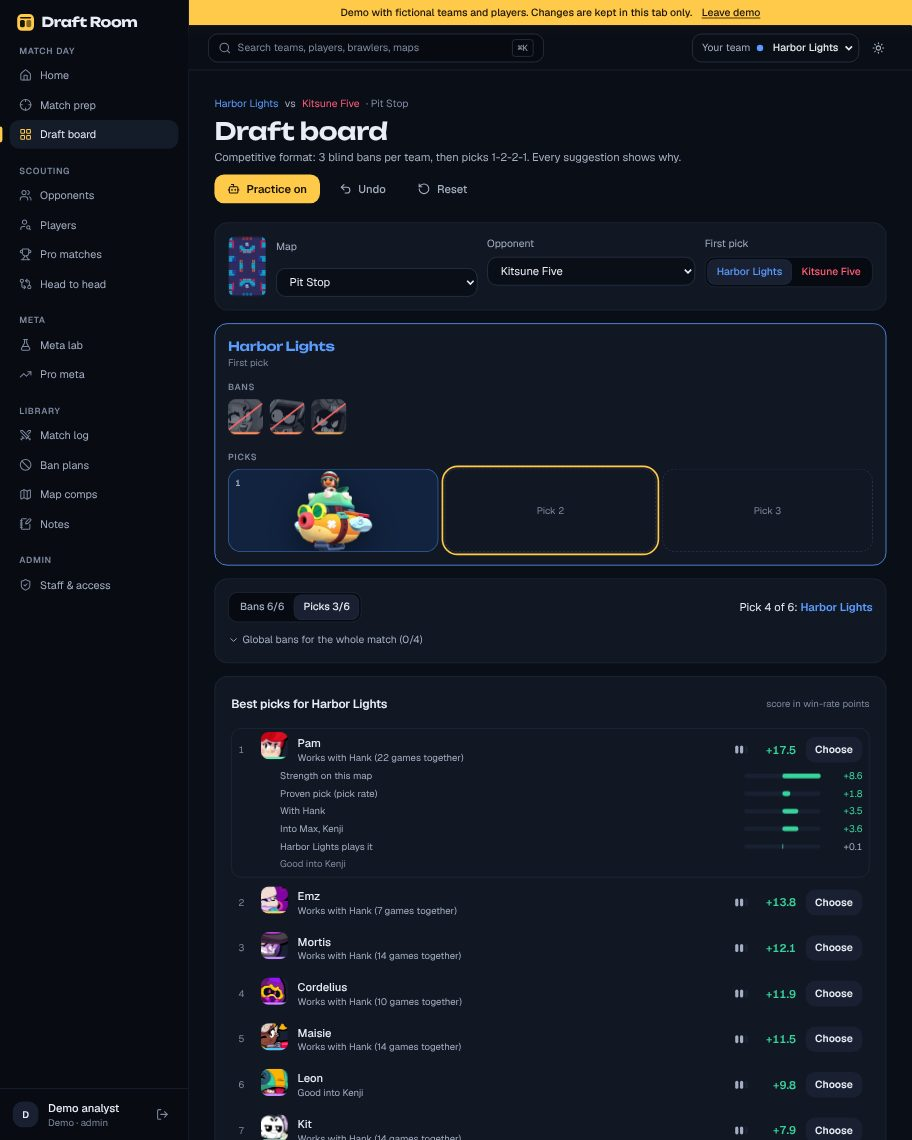
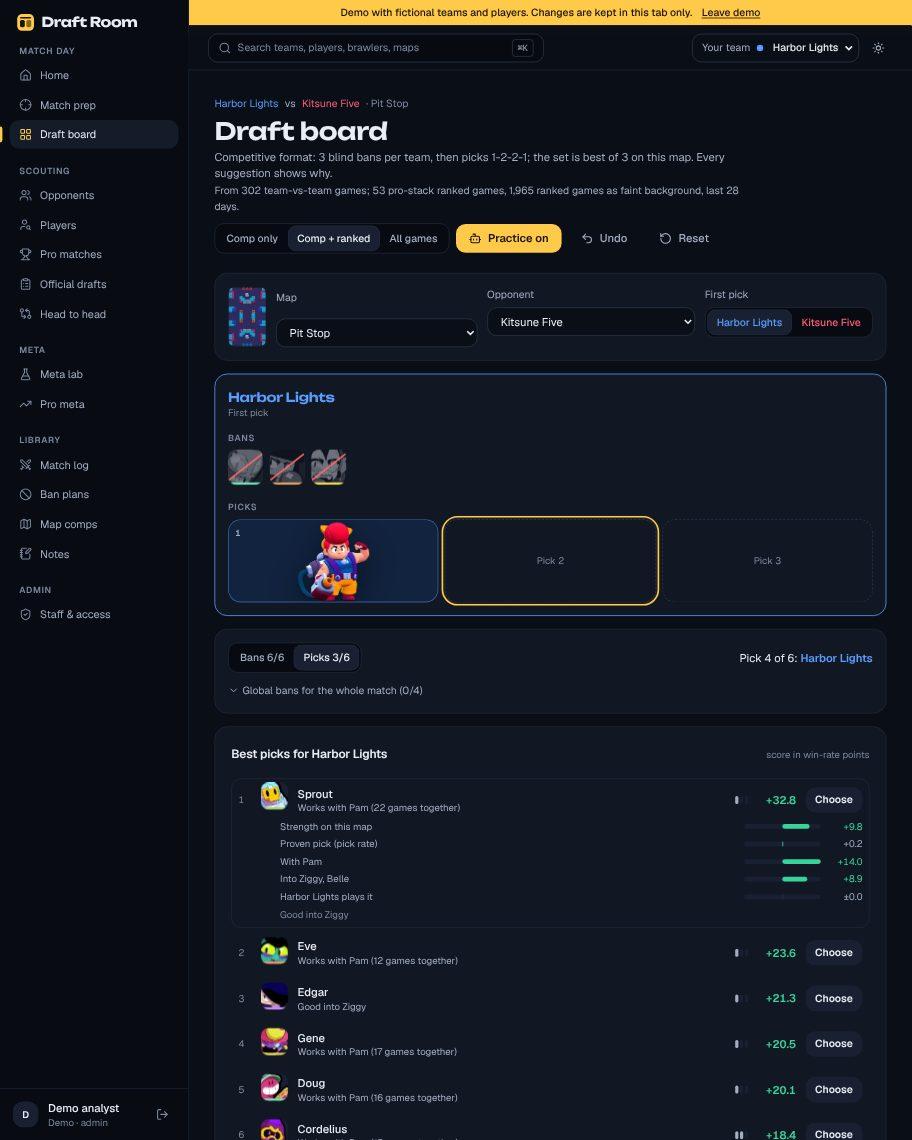
Draft Room case study: team games first, Bo3 sets, official drafts
The tool changed how it weighs games and models the format, so the case
study follows: team-vs-team games count most and ranked is a faint
background (27:1), a set is best of 3 so map chances are set chances,
the opponent's meetings are rebuilt into sets, and official drafts add
global bans and blind bans. New screenshots from the demo; 78 tests.

Claude-Session: https://claude.ai/code/session_01YJ1YNmBbiQA9FoP4xvYfCu

diff --git a/index.html b/index.html
@@ -565,7 +565,7 @@ em { font-style: italic; }
       <h2 class="work__head" id="work-h">Tools I built</h2>
       <ul class="work__list" data-index>
         <li><a class="work__row is-on" href="/work/player-analysis-tooling" data-pic="0"><img class="work__pic" src="/home/screens/battle-log.jpg" alt="Case study: from battle log to set decision, 1,000 recent battles per player" width="912" height="1140" loading="lazy"><span class="work__name">Battle Log to Set</span><span class="work__meta">Esports, my method in depth</span></a></li>
-        <li><a class="work__row" href="/work/draft-room" data-pic="1"><img class="work__pic" src="/home/screens/draft-room.jpg" alt="Draft Room: the draft board suggests Pam at +17.5 and shows the parts of that score" width="912" height="1140" loading="lazy"><span class="work__name">Draft Room</span><span class="work__meta">Brawl Stars, match prep</span></a></li>
+        <li><a class="work__row" href="/work/draft-room" data-pic="1"><img class="work__pic" src="/home/screens/draft-room.jpg" alt="Draft Room: the draft board suggests Sprout at +32.8 and shows the parts of that score" width="912" height="1140" loading="lazy"><span class="work__name">Draft Room</span><span class="work__meta">Brawl Stars, match prep</span></a></li>
         <li><a class="work__row" href="/work/scout-hq" data-pic="2"><img class="work__pic" src="/home/screens/scout-hq.jpg" alt="Scout HQ: one page per League of Legends opponent, facts only" width="912" height="1140" loading="lazy"><span class="work__name">Scout HQ</span><span class="work__meta">League of Legends, opponent reports</span></a></li>
         <li><a class="work__row" href="https://tojacob03.github.io/Prognosebuch/en/" target="_blank" rel="noopener" data-pic="3"><img class="work__pic" src="/home/screens/prognosebuch.jpg" alt="Prognosebuch: tomorrow's German power prices with an 80 percent band" width="912" height="1140" loading="lazy"><span class="work__name">Prognosebuch</span><span class="work__meta">Forecasts, scored in public</span></a></li>
         <li><a class="work__row" href="/race-strategy" data-pic="4"><img class="work__pic" src="/home/screens/race-strategy.jpg" alt="Race Strategy Lab: tyre stints of every driver in a Grand Prix" width="912" height="1140" loading="lazy"><span class="work__name">Race Strategy Lab</span><span class="work__meta">Formula 1, since 2023</span></a></li>

diff --git a/src/content/case-studies/draft-room.md b/src/content/case-studies/draft-room.md
@@ -2,11 +2,11 @@
 slug: draft-room
 eyebrow: Brawl Stars · match prep
 title: A Draft Board That Shows Its Working
-summary: The public Brawl Stars tools are built for ranked players. A team preparing a best of five needs the opponent's own pool, the map draft, global bans and an honest estimate, so I built that, with every suggestion split into the parts it is made of.
+summary: The public Brawl Stars tools are built for ranked players. A team preparing a best of five needs the opponent's own games against other teams, the map draft, global bans and an honest estimate, so I built that, with every suggestion split into the parts it is made of.
 date: 2026-11-13
 metric: 25
 metricLabel: games the official battle log keeps per player; Draft Room stores every sync
-stats: 3 : 1 | weight of a pro game against a ranked game; 20 | games a map record needs before it outweighs the prior; 71 | automated tests, from the model to the sync
+stats: 27 : 1 | weight of a game between two teams against a ranked game; 20 | games a map record needs before it outweighs the prior; 78 | automated tests, from the model to the sync
 role: Design, build & analysis
 stack: TypeScript, React, TanStack Start, Postgres, Brawl Stars API
 ctaLabel: Ask me for a walkthrough →
@@ -14,17 +14,17 @@ ctaLabel: Ask me for a walkthrough →
 
 ## What the public tools miss
 
-There are good Brawl Stars tools for players: tier lists per map, counter tables, pick assistants and draft practice for ranked. I went through all of them before I started. What none of them does is prepare a team for one opponent in the competitive format, where a match is a best of five maps, each team has two global bans for the whole match, and every map starts with three blind bans per team before the picks go 1-2-2-1.
+There are good Brawl Stars tools for players: tier lists per map, counter tables, pick assistants and draft practice for ranked. I went through all of them before I started. What none of them does is prepare a team for one opponent in the competitive format. In the 2026 rulebook a match is a best of five sets, each set a best of three games on one map. The teams draft the maps in turn, one per mode, and each bans two brawlers for the whole match. Before every set each player bans one more brawler blind, then the picks go 1-2-2-1.
 
-For that you need three things a ranked tool cannot give you. The opponent's own pool, from their own games. The order of maps the draft is likely to produce. And a number for the series, not only for one map.
+For that you need three things a ranked tool cannot give you. The opponent's own games against other teams. The order of maps the draft is likely to produce. And a number for the match, not only for one game.
 
 ## Where the numbers come from
 
 The official battle log only keeps a player's last 25 games. Draft Room stores every sync, so the history of a roster keeps growing. An hourly job syncs the teams that matter first: my own team and pinned opponents every hour, opponents I am preparing against and top-tier teams every hour, everyone else every three hours. With time left in a run it reads a rotating slice of the global top 200 and keeps only their drafted games, so tier lists rest on more than the teams I track.
 
-Not every game counts the same. A game of a tracked pro team counts three times as much as a ranked game, a friendly (where scrims happen) twice, trophy ladder a fifth. Older games fade with a half-life of 30 days.
+Not every game counts the same, and that is where my first version was wrong. It counted a pro stack in ranked three times, a scrim only twice. But ranked is a different game: random opponents, no prepared plan. Now every game is sorted by what it was. A game between two tracked teams outside the ranked queue (a scrim or an official match) counts most, a friendly against an untracked team half as much, and ranked stays a faint background, about one twenty-seventh of a team game, that only fills gaps where no team has played a brawler. The trophy ladder is out. A switch on every page shows the numbers from team games alone, and each page says how many games of which kind stand behind it. Older games fade with a half-life of three weeks.
 
-![Draft board in the demo: Harbor Lights picks fourth on Pit Stop, the top suggestion Pam at +17.5 split into map strength, pick rate, synergy with Hank, matchups and comfort](/projects/draft-room/draft-board.jpg)
+![Draft board in the demo: Harbor Lights picks fourth on Pit Stop, the top suggestion Sprout at +32.8 split into map strength, pick rate, synergy with Pam, matchups and comfort](/projects/draft-room/draft-board.jpg)
 
 ## A 3-0 is not a 60 %
 
@@ -34,18 +34,20 @@ My first version had this wrong in two ways. The prior for a map included the ma
 
 ## Every suggestion shows its parts
 
-A suggestion is a sum of named parts in win-rate points: strength on this map, how often good teams pick it, synergy with the picks already made, matchups into the enemy picks, and how much the roster plays it. In the demo above, Pam on Pit Stop scores +17.5, and +8.6 of that is the map. A coach can disagree with a part and still use the rest, which is not possible with a single score.
+A suggestion is a sum of named parts in win-rate points: strength on this map, how often good teams pick it, synergy with the picks already made, matchups into the enemy picks, and how much the roster plays it. In the demo above, Sprout on Pit Stop scores +32.8: +9.8 from the map, +14.0 next to Pam and +8.9 into Ziggy and Belle. A coach can disagree with a part and still use the rest, which is not possible with a single score.
 
 The same parts drive a practice mode. The bot does not draft what is best; it drafts what the opponent's record says they are likely to pick, so the practice is against this opponent and not against a perfect drafter.
 
-![Match prep: map pool with records for both teams, the likely map draft and the series projection](/projects/draft-room/match-prep.jpg)
+![Match prep: set chance per map from both teams' records in team games, the likely map draft and the match projection](/projects/draft-room/match-prep.jpg)
 
-## From one map to the series
+## From one game to the match
 
-Match prep puts the opponent's map pool next to ours, combines both records into a chance per map, and plays the map draft through: each team takes its best open map. The series chance is computed for first to three over that order, and the page says which side to choose and which two global bans hurt the opponent most.
+Match prep puts the opponent's map pool next to ours and combines both records into the chance to win one game on each map. A set is a best of three, so that becomes the chance to win two games first, p²(3−2p): 60 % per game is 65 % per set. Treating a map as a single game, as my first version did, understates every favourite. Then it plays the map draft through, each team taking its best open map, computes the match as first to three sets over that order, and says which side to choose and which two global bans hurt the opponent most.
+
+Below that come the opponent's meetings with other tracked teams, rebuilt from the battle logs into sets and matches: which looked like the real format, their set record per mode, the mode they open with, the mode they never play. What the logs can't show, the map draft and the bans, I enter from the VOD in about two minutes per match; the page then shows the opponent's global bans, their first map pick and their blind bans per mode.
 
 ![Map page: the layout, the five best brawlers right now and the full tier list for Hard Rock Mine](/projects/draft-room/map-page.jpg)
 
 ## What it does not do
 
-It reads public battle logs, nothing else. Scrims are only visible when they were played as friendly games, and a prepared strategy that a team has never played in public cannot show up. The suggestions are a starting point for the staff, not a decision. The demo uses invented teams and players; the real workspace is private and only approved staff can open it.
+It reads public battle logs and the drafts I enter, nothing else. Scrims are only visible when they were played as friendly games, games on LAN may not appear at all, and a prepared strategy that a team has never played cannot show up. The suggestions are a starting point for the staff, not a decision. The demo uses invented teams and players; the real workspace is private and only approved staff can open it.
